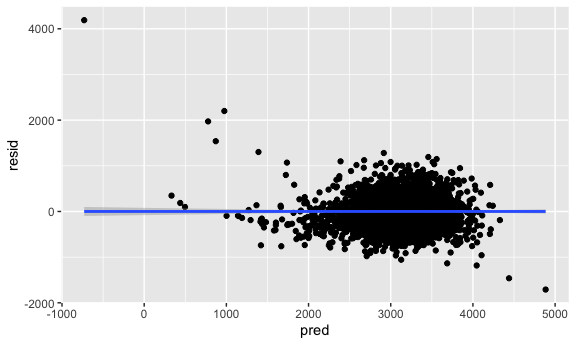
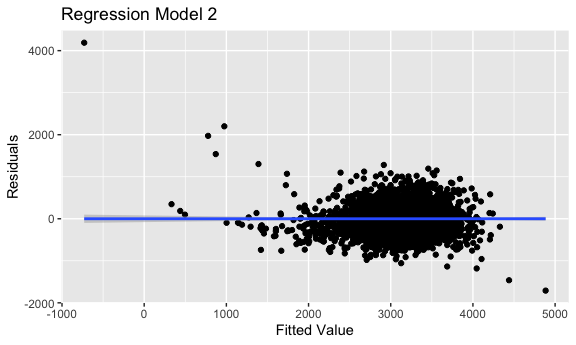
finish problem 2

diff --git a/p8105_hw6_ac4964.md b/p8105_hw6_ac4964.md
@@ -154,7 +154,12 @@ birthweight_df %>%
   modelr::add_predictions(fit_1) %>%  
   ggplot(aes(x = pred, y = resid)) +
   geom_point() +
-  geom_smooth(method = "lm")
+  geom_smooth(method = "lm") +
+  labs(
+    title = "Regression Model 1",
+    x = "Fitted Value",
+    y = "residuals",
+  )
 ```
 
     ## `geom_smooth()` using formula 'y ~ x'
@@ -227,7 +232,12 @@ birthweight_df %>%
   modelr::add_predictions(fit_2) %>%  
   ggplot(aes(x = pred, y = resid)) +
   geom_point() +
-  geom_smooth(method = "lm")
+  geom_smooth(method = "lm") +
+  labs(
+    title = "Regression Model 2",
+    x = "Fitted Value",
+    y = "Residuals",
+  )
 ```
 
     ## `geom_smooth()` using formula 'y ~ x'
@@ -303,7 +313,12 @@ birthweight_df %>%
   modelr::add_predictions(fit_3) %>%  
   ggplot(aes(x = pred, y = resid)) +
   geom_point() +
-  geom_smooth(method = "lm")
+  geom_smooth(method = "lm") +
+  labs(
+    title = "Regression Model 3",
+    x = "Fitted Value",
+    y = "Residuals",
+  )
 ```
 
     ## `geom_smooth()` using formula 'y ~ x'
@@ -338,7 +353,12 @@ cv_df %>%
     names_prefix = "rmse_"
   ) %>% 
   ggplot(aes(x = model, y = rmse)) +
-  geom_violin()
+  geom_violin() +
+  labs(
+    title = "Comparison of the three Regression Models",
+    x = "Models",
+    y = "Cross-validated Prediction Error(RMSE)",
+  )
 ```
 
 <img src="p8105_hw6_ac4964_files/figure-gfm/unnamed-chunk-6-1.png" width="90%" />
@@ -377,6 +397,9 @@ Use 5000 bootstrap samples and, for each bootstrap sample, produce
 estimates of these two quantities. Plot the distribution of your
 estimates, and describe these in words.
 
+Both the distribution plot of log(B0\*B1) and r^2 looks like they are
+normally distributed.
+
 ``` r
 weather_bootstrap_df =
   weather_df %>% 
@@ -402,7 +425,7 @@ log_parameter_results =
     names_from = term,
     values_from = estimate
     ) %>% 
-  unnest(intercept,tmin) %>% 
+  unnest(c(intercept,tmin)) %>% 
   mutate(
     log_B0_B1 = log(intercept * tmin),
   ) 
@@ -413,26 +436,68 @@ log_parameter_results =
     ## * Use `values_fn = length` to identify where the duplicates arise
     ## * Use `values_fn = {summary_fun}` to summarise duplicates
 
-    ## Warning: unnest() has a new interface. See ?unnest for details.
-    ## Try `df %>% unnest(c(intercept, tmin))`, with `mutate()` if needed
+``` r
+log_parameter_results %>% 
+  ggplot(aes(x = log_B0_B1)) +
+  geom_density() +
+  labs(
+    title = " Distribution plot of log(B0*B1) ",
+    x = "Desity",
+    y = "log(B0*B1)",
+  )
+```
+
+<img src="p8105_hw6_ac4964_files/figure-gfm/unnamed-chunk-8-1.png" width="90%" />
 
 ``` r
-log_parameter_dist =
-  log_parameter_results %>% 
-  ggplot(aes(x = log_B0_B1)) +
-  geom_density()
-
 r_squared_results =
   weather_bootstrap_map_results %>% 
   select(r_squared_results) %>% 
   unnest(r_squared_results) %>%   
   select(r.squared)
 
-r_squared_dist =
-  r_squared_results %>% 
+
+r_squared_results %>% 
   ggplot(aes(x = r.squared)) +
-  geom_density()
+  geom_density() +
+  labs(
+    title = "Distribution plot of r squared ",
+    x = "Desity",
+    y = "r squared",
+  )
 ```
 
+<img src="p8105_hw6_ac4964_files/figure-gfm/unnamed-chunk-8-2.png" width="90%" />
+
 Using the 5000 bootstrap estimates, identify the 2.5% and 97.5%
-quantiles to provide a 95% confidence interval for r̂2 and log(B0\*B1)
+quantiles to provide a 95% confidence interval for r^2 and log(B0\*B1)
+
+``` r
+log_parameter_quantiles = quantile(log_parameter_results$log_B0_B1, c(0.025,0.975)) 
+log_parameter_quantiles
+```
+
+    ##     2.5%    97.5% 
+    ## 1.965210 2.058056
+
+``` r
+log_parameter_ci = diff(log_parameter_quantiles) 
+log_parameter_ci[[1]]
+```
+
+    ## [1] 0.09284545
+
+``` r
+r_squared_quantiles = quantile(r_squared_results$r.squared, c(0.025,0.975))
+r_squared_quantiles
+```
+
+    ##      2.5%     97.5% 
+    ## 0.8940581 0.9267573
+
+``` r
+r_squared_ci = diff(r_squared_quantiles) 
+r_squared_ci[[1]]
+```
+
+    ## [1] 0.03269925
